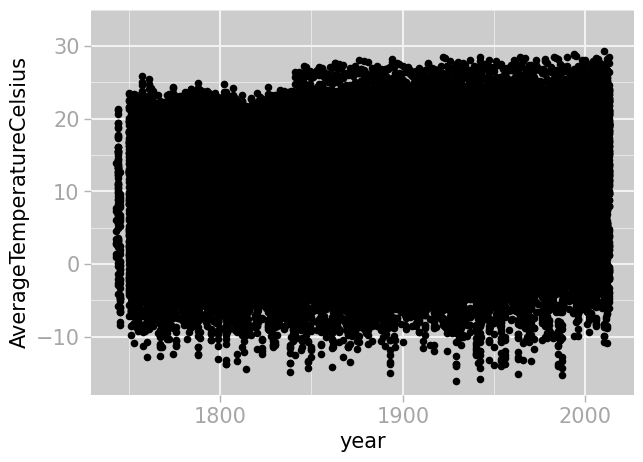
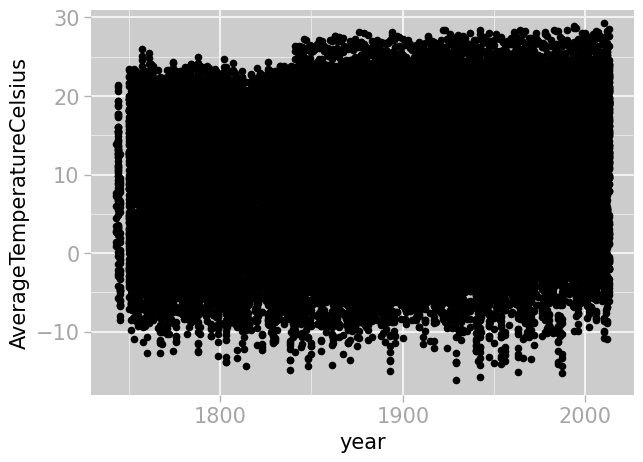
task2 finished

diff --git a/scripts_and_plots/task2c.py b/scripts_and_plots/task2c.py
@@ -21,7 +21,7 @@ def main():
     temps = data[1]
 
     for year, temp in zip(years, temps):
-        ax.scatter([year] * len(temp), temp, color='black', s=20)
+        ax.scatter([year] * len(temp), temp, color='black', s=20, alpha=0.05)
 
     ax.set_ylim(ut.max_min(temps)[2:4])
 
@@ -62,7 +62,7 @@ def main():
     if args.show_save == '0':
         plt.show()
     else:
-        plt.savefig('plots/task2b.png', bbox_inches='tight')
+        plt.savefig('plots/task2c.png', bbox_inches='tight')
         print('Saving plot in plots dir.')
     print('Done')
 

diff --git a/scripts_and_plots/task2d.py b/scripts_and_plots/task2d.py
@@ -21,7 +21,7 @@ def main():
     temps = data[1]
 
     for year, temp in zip(years, temps):
-        ax.scatter([year] * len(temp), temp, color='black', s=20)
+        ax.scatter([year] * len(temp), temp, color='b', s=20, alpha=0.05)
 
     ax.set_ylim(ut.max_min(temps)[2:4])
 
@@ -62,7 +62,7 @@ def main():
     if args.show_save == '0':
         plt.show()
     else:
-        plt.savefig('plots/task2b.png', bbox_inches='tight')
+        plt.savefig('plots/task2d.png', bbox_inches='tight')
         print('Saving plot in plots dir.')
     print('Done')
 

diff --git a/scripts_and_plots/task2a.py b/scripts_and_plots/task2a.py
@@ -18,7 +18,6 @@ def main():
     fig, ax = plt.subplots(figsize=(7, 5))
     years = data[0]
     temps = data[1]
-    col_names = data[2]
 
     for year, temp in zip(years, temps):
         ax.scatter([year] * len(temp), temp, edgecolors='black', facecolors='none')
